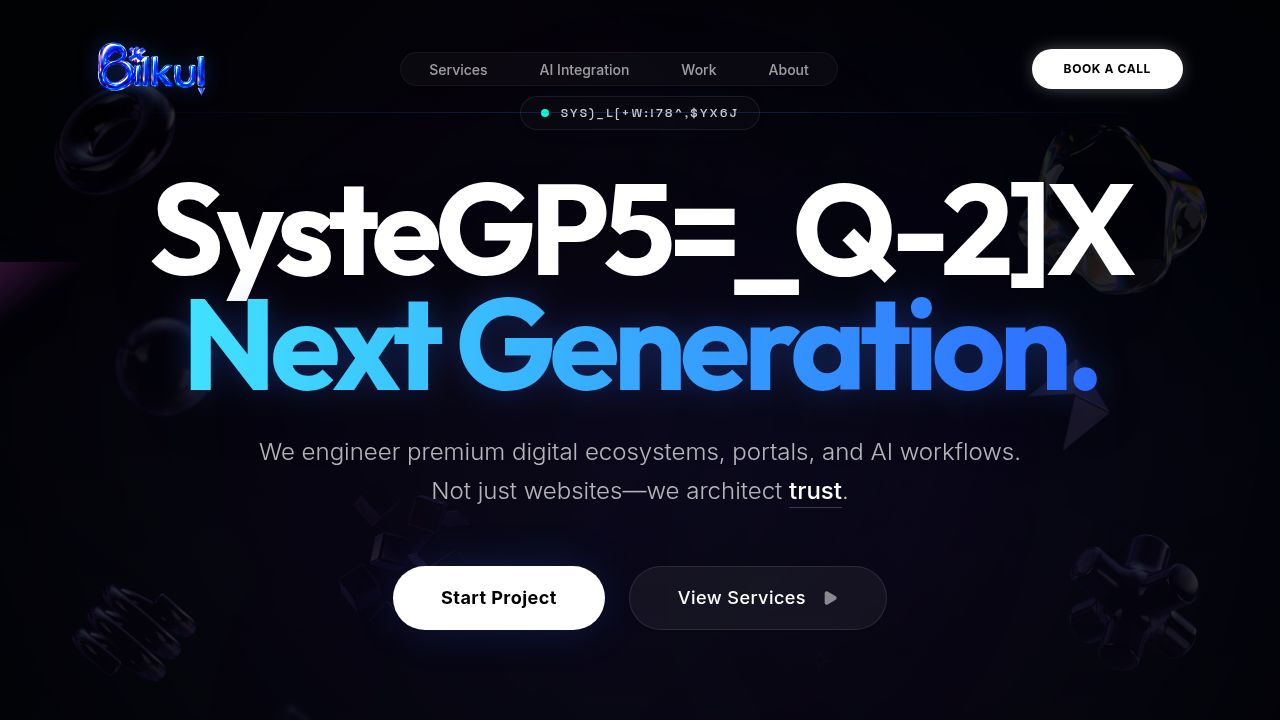
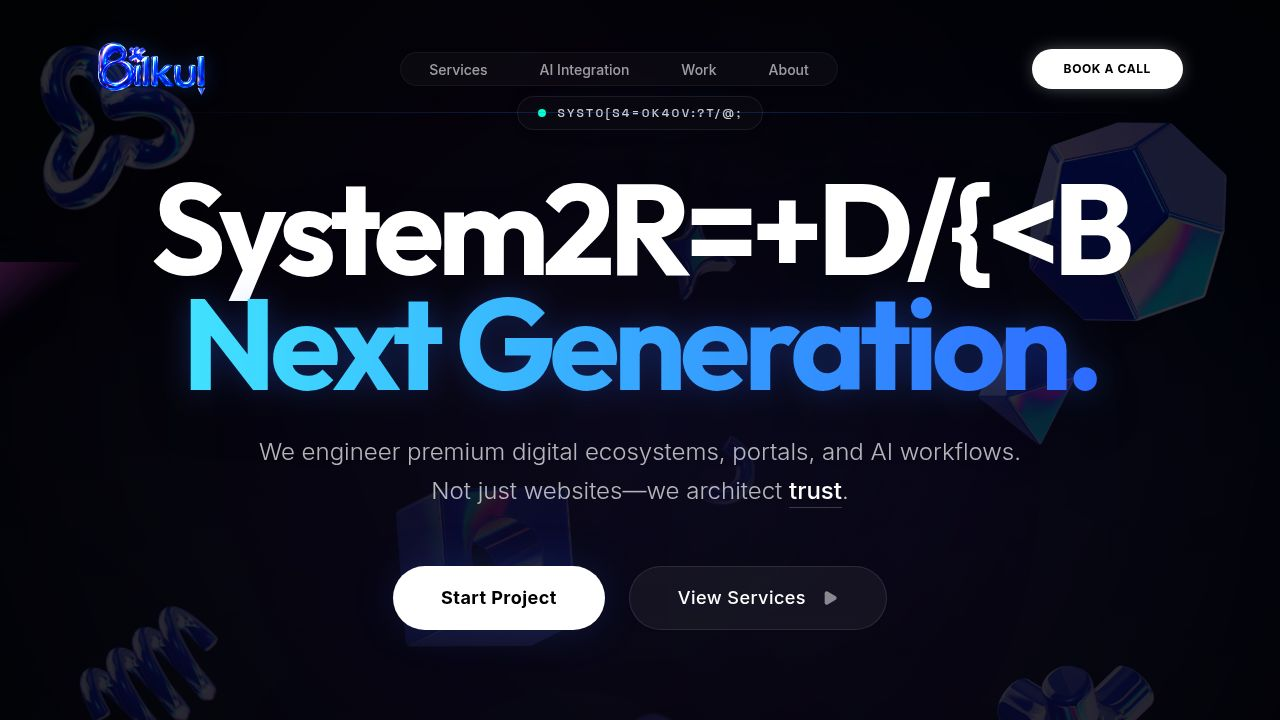
Add immersive 3D floating objects across all web application pages
Update the floating objects component to use new 3D assets and enhance parallax effects with multiple speed tracks and continuous rotation.

Replit-Commit-Author: Agent
Replit-Commit-Session-Id: b6646207-bb3b-4fdc-86e4-3cd2019979aa
Replit-Commit-Checkpoint-Type: full_checkpoint
Replit-Commit-Event-Id: 17563b29-9424-4441-b4cb-e24a32e6481e
Replit-Commit-Screenshot-Url: https://storage.googleapis.com/screenshot-production-us-central1/81a523f9-af39-43ec-862f-cd784d61e943/b6646207-bb3b-4fdc-86e4-3cd2019979aa/2JnOMdK
Replit-Helium-Checkpoint-Created: true

diff --git a/client/src/components/ui/floating-objects.tsx b/client/src/components/ui/floating-objects.tsx
@@ -1,24 +1,26 @@
 import { motion, useScroll, useTransform, useSpring } from "framer-motion";
 import { useRef } from "react";
 
-// Asset paths
+// Updated Asset paths using new blue 3D shapes
 const shapes = {
-  cylinder: "/assets/shapes/cylinder.png",
-  cone: "/assets/shapes/cone.png",
-  lightning: "/assets/shapes/lightning.png",
-  jack: "/assets/shapes/jack.png",
-  cubesFalling: "/assets/shapes/cubes-falling.png",
-  coil: "/assets/shapes/coil.png",
-  sphere: "/assets/shapes/sphere.png",
-  diamond: "/assets/shapes/diamond.png",
-  triangle: "/assets/shapes/triangle.png",
-  cube: "/assets/shapes/cube.png",
-  star: "/assets/shapes/star.png",
+  triangleRounded: "/assets/shapes-new/blue-triangle-rounded.png",
+  torusKnot: "/assets/shapes-new/blue-torus-knot.png",
+  cubeHole: "/assets/shapes-new/blue-cube-hole.png",
+  crossRounded: "/assets/shapes-new/blue-cross-rounded.png",
+  jackRounded: "/assets/shapes-new/blue-jack-rounded.png",
+  torus: "/assets/shapes-new/blue-torus.png",
+  dodecahedron: "/assets/shapes-new/blue-dodecahedron.png",
+  starBurst: "/assets/shapes-new/blue-star-burst.png",
+  diamondDouble: "/assets/shapes-new/blue-diamond-double.png",
+  hexagon: "/assets/shapes-new/blue-hexagon.png",
+  tubeCurve: "/assets/shapes-new/blue-tube-curve-c.png",
+  spring: "/assets/shapes-new/blue-spring.png",
+  starFour: "/assets/shapes-new/blue-star-four.png",
+  cylinderHole: "/assets/shapes-new/blue-cylinder-hole.png",
+  pyramidTall: "/assets/shapes-new/blue-pyramid-tall.png",
+  
+  // Legacy or backup shapes if needed, though we will replace most
   blobDark: "/assets/shapes/blob-dark.png",
-  cubesCluster: "/assets/shapes/cubes-cluster.png",
-  torus: "/assets/shapes/torus.png",
-  blobIridescent: "/assets/shapes/blob-iridescent.png",
-  tube: "/assets/shapes/tube.png",
 };
 
 export function FloatingObjects() {
@@ -28,109 +30,127 @@ export function FloatingObjects() {
     offset: ["start start", "end end"]
   });
 
-  const springConfig = { stiffness: 40, damping: 20, restDelta: 0.001 };
+  const springConfig = { stiffness: 30, damping: 20, restDelta: 0.001 };
   
   // Create distinct vertical tracks for parallax to prevent collision
-  // Track 1: Fast (Foreground)
-  const yFast = useSpring(useTransform(scrollYProgress, [0, 1], [0, -1500]), springConfig);
+  // Track 1: Fast (Foreground) - Move faster
+  const yFast = useSpring(useTransform(scrollYProgress, [0, 1], [0, -1800]), springConfig);
   
   // Track 2: Medium (Midground)
-  const yMedium = useSpring(useTransform(scrollYProgress, [0, 1], [0, -800]), springConfig);
+  const yMedium = useSpring(useTransform(scrollYProgress, [0, 1], [0, -1000]), springConfig);
   
   // Track 3: Slow (Background)
-  const ySlow = useSpring(useTransform(scrollYProgress, [0, 1], [0, -300]), springConfig);
+  const ySlow = useSpring(useTransform(scrollYProgress, [0, 1], [0, -400]), springConfig);
   
-  // Reverse direction tracks for variety
-  const yReverseMedium = useSpring(useTransform(scrollYProgress, [0, 1], [0, 600]), springConfig);
+  // Reverse direction tracks for variety (Objects moving UP as you scroll DOWN)
+  const yReverseMedium = useSpring(useTransform(scrollYProgress, [0, 1], [0, 800]), springConfig);
+  const yReverseFast = useSpring(useTransform(scrollYProgress, [0, 1], [0, 1200]), springConfig);
 
-  // Rotations
-  const rotateSlow = useSpring(useTransform(scrollYProgress, [0, 1], [0, 45]), springConfig);
-  const rotateFast = useSpring(useTransform(scrollYProgress, [0, 1], [0, 180]), springConfig);
-  const rotateReverse = useSpring(useTransform(scrollYProgress, [0, 1], [0, -90]), springConfig);
+  // Rotations - Continuous
+  const rotateSlow = useSpring(useTransform(scrollYProgress, [0, 1], [0, 60]), springConfig);
+  const rotateFast = useSpring(useTransform(scrollYProgress, [0, 1], [0, 240]), springConfig);
+  const rotateReverse = useSpring(useTransform(scrollYProgress, [0, 1], [0, -120]), springConfig);
+  
+  // Scales (Subtle breathing effect or zoom on scroll)
+  const scaleEffect = useSpring(useTransform(scrollYProgress, [0, 0.5, 1], [1, 1.1, 1]), springConfig);
 
   return (
-    <div ref={ref} className="fixed inset-0 overflow-hidden pointer-events-none z-0 h-[120vh] w-full">
+    <div ref={ref} className="fixed inset-0 overflow-hidden pointer-events-none z-0 h-[150vh] w-full">
       {/* 
         GRID DISTRIBUTION STRATEGY:
-        Divide screen into roughly 6 zones (Top-Left, Top-Right, Mid-Left, Mid-Right, Bot-Left, Bot-Right)
-        and ensure spacing.
+        Expanded to cover more vertical space since we have scroll animations.
       */}
 
       {/* --- ZONE 1: TOP LEFT (Hero Area) --- */}
       <motion.div 
         style={{ y: yMedium, rotate: rotateSlow }} 
-        className="absolute top-[8%] left-[3%] w-[12vw] max-w-[180px] opacity-90 z-10"
+        className="absolute top-[5%] left-[2%] w-[14vw] max-w-[200px] opacity-90 z-10"
       >
-        <img src={shapes.torus} alt="" className="w-full h-full object-contain animate-float" style={{ animationDelay: "0s" }} />
+        <img src={shapes.torusKnot} alt="" className="w-full h-full object-contain animate-float" style={{ animationDelay: "0s" }} />
       </motion.div>
 
       {/* --- ZONE 2: TOP RIGHT (Hero Area) --- */}
       <motion.div 
         style={{ y: yFast, rotate: rotateFast }} 
-        className="absolute top-[12%] right-[5%] w-[16vw] max-w-[240px] opacity-100 z-20"
+        className="absolute top-[10%] right-[3%] w-[18vw] max-w-[260px] opacity-100 z-20"
       >
-        <img src={shapes.blobIridescent} alt="" className="w-full h-full object-contain animate-float" style={{ animationDelay: "1.5s" }} />
+        <img src={shapes.dodecahedron} alt="" className="w-full h-full object-contain animate-float" style={{ animationDelay: "1.5s" }} />
       </motion.div>
 
       {/* --- ZONE 3: UPPER MID LEFT (Service Area) --- */}
       <motion.div 
         style={{ y: ySlow, rotate: rotateReverse }} 
-        className="absolute top-[35%] left-[8%] w-[10vw] max-w-[140px] opacity-70 blur-[1px] z-0"
+        className="absolute top-[25%] left-[10%] w-[12vw] max-w-[160px] opacity-70 blur-[1px] z-0"
       >
-        <img src={shapes.sphere} alt="" className="w-full h-full object-contain animate-float" style={{ animationDelay: "2.5s" }} />
+        <img src={shapes.sphere} alt="" className="w-full h-full object-contain animate-float" style={{ animationDelay: "2.5s" }} 
+             onError={(e) => e.currentTarget.src = shapes.dodecahedron} // Fallback
+        />
       </motion.div>
 
       {/* --- ZONE 4: UPPER MID RIGHT --- */}
       <motion.div 
         style={{ y: yReverseMedium, rotate: rotateSlow }} 
-        className="absolute top-[40%] right-[12%] w-[9vw] max-w-[120px] opacity-80 z-10"
+        className="absolute top-[30%] right-[15%] w-[10vw] max-w-[140px] opacity-80 z-10"
       >
-        <img src={shapes.diamond} alt="" className="w-full h-full object-contain animate-float" style={{ animationDelay: "3s" }} />
+        <img src={shapes.diamondDouble} alt="" className="w-full h-full object-contain animate-float" style={{ animationDelay: "3s" }} />
       </motion.div>
 
       {/* --- ZONE 5: CENTER FLOAT (Transition) --- */}
       <motion.div 
-        style={{ y: yMedium, rotate: rotateFast }} 
-        className="absolute top-[55%] left-[25%] w-[14vw] max-w-[200px] opacity-60 z-0"
+        style={{ y: yMedium, rotate: rotateFast, scale: scaleEffect }} 
+        className="absolute top-[45%] left-[30%] w-[16vw] max-w-[220px] opacity-60 z-0"
       >
-        <img src={shapes.cubesFalling} alt="" className="w-full h-full object-contain animate-float" style={{ animationDelay: "0.5s" }} />
+        <img src={shapes.cubeHole} alt="" className="w-full h-full object-contain animate-float" style={{ animationDelay: "0.5s" }} />
       </motion.div>
 
       {/* --- ZONE 6: MID LEFT (Work Area) --- */}
       <motion.div 
         style={{ y: yFast, rotate: rotateReverse }} 
-        className="absolute top-[65%] left-[5%] w-[11vw] max-w-[160px] opacity-80 z-10"
+        className="absolute top-[55%] left-[5%] w-[13vw] max-w-[180px] opacity-80 z-10"
       >
-        <img src={shapes.coil} alt="" className="w-full h-full object-contain animate-float" style={{ animationDelay: "4s" }} />
+        <img src={shapes.spring} alt="" className="w-full h-full object-contain animate-float" style={{ animationDelay: "4s" }} />
       </motion.div>
 
       {/* --- ZONE 7: MID RIGHT (Work Area) --- */}
       <motion.div 
         style={{ y: ySlow, rotate: rotateFast }} 
-        className="absolute top-[60%] right-[5%] w-[13vw] max-w-[190px] opacity-75 z-10"
+        className="absolute top-[60%] right-[8%] w-[15vw] max-w-[210px] opacity-75 z-10"
       >
-        <img src={shapes.jack} alt="" className="w-full h-full object-contain animate-float" style={{ animationDelay: "1.2s" }} />
+        <img src={shapes.jackRounded} alt="" className="w-full h-full object-contain animate-float" style={{ animationDelay: "1.2s" }} />
       </motion.div>
 
       {/* --- ZONE 8: LOWER LEFT (Footer/Bottom) --- */}
       <motion.div 
-        style={{ y: yReverseMedium, rotate: rotateSlow }} 
-        className="absolute top-[80%] left-[15%] w-[15vw] max-w-[220px] opacity-50 blur-[2px] z-0"
+        style={{ y: yReverseFast, rotate: rotateSlow }} 
+        className="absolute top-[75%] left-[12%] w-[16vw] max-w-[240px] opacity-50 blur-[1px] z-0"
       >
-        <img src={shapes.tube} alt="" className="w-full h-full object-contain animate-float" style={{ animationDelay: "2s" }} />
+        <img src={shapes.tubeCurve} alt="" className="w-full h-full object-contain animate-float" style={{ animationDelay: "2s" }} />
       </motion.div>
 
       {/* --- ZONE 9: LOWER RIGHT (Footer/Bottom) --- */}
       <motion.div 
         style={{ y: yFast, rotate: rotateFast }} 
-        className="absolute top-[85%] right-[8%] w-[12vw] max-w-[170px] opacity-80 z-10"
+        className="absolute top-[85%] right-[10%] w-[14vw] max-w-[190px] opacity-80 z-10"
       >
-        <img src={shapes.lightning} alt="" className="w-full h-full object-contain animate-float" style={{ animationDelay: "3.5s" }} />
+        <img src={shapes.starBurst} alt="" className="w-full h-full object-contain animate-float" style={{ animationDelay: "3.5s" }} />
       </motion.div>
 
-      {/* Tiny Accents - Scattered without overlay */}
-      <motion.div style={{ y: yMedium }} className="absolute top-[25%] left-[40%] w-8 opacity-60"><img src={shapes.star} className="w-full" alt="" /></motion.div>
-      <motion.div style={{ y: ySlow }} className="absolute top-[75%] right-[35%] w-6 opacity-50"><img src={shapes.star} className="w-full" alt="" /></motion.div>
+       {/* --- EXTRA ACCENTS --- */}
+      <motion.div style={{ y: yMedium, rotate: rotateSlow }} className="absolute top-[20%] left-[50%] w-[8vw] max-w-[100px] opacity-60">
+          <img src={shapes.starFour} className="w-full object-contain animate-float" alt="" style={{ animationDelay: "1s" }} />
+      </motion.div>
+      
+      <motion.div style={{ y: yReverseMedium, rotate: rotateFast }} className="absolute top-[65%] left-[45%] w-[10vw] max-w-[130px] opacity-50 blur-[1px]">
+          <img src={shapes.cylinderHole} className="w-full object-contain animate-float" alt="" style={{ animationDelay: "2.2s" }} />
+      </motion.div>
+
+      <motion.div style={{ y: ySlow, rotate: rotateReverse }} className="absolute top-[80%] right-[35%] w-[12vw] max-w-[150px] opacity-60">
+          <img src={shapes.pyramidTall} className="w-full object-contain animate-float" alt="" style={{ animationDelay: "0.8s" }} />
+      </motion.div>
+      
+      <motion.div style={{ y: yFast, rotate: rotateSlow }} className="absolute top-[40%] right-[40%] w-[6vw] max-w-[80px] opacity-40">
+          <img src={shapes.hexagon} className="w-full object-contain animate-float" alt="" style={{ animationDelay: "3.2s" }} />
+      </motion.div>
       
        {/* Background Deep Elements (Slow Moving Ambiance) */}
        <motion.div 
